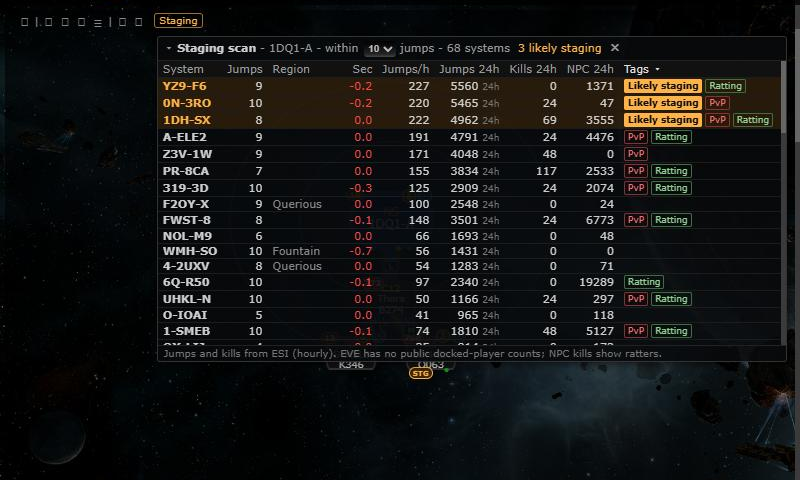
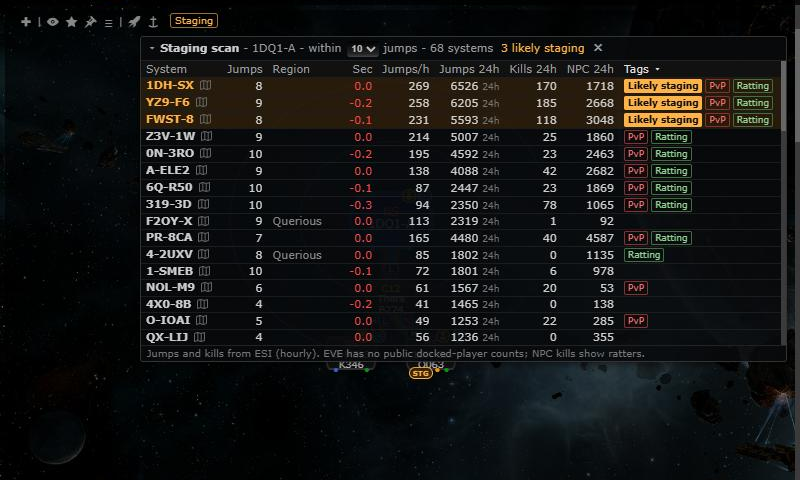
Staging scan: Ratting tag from 1000 NPC kills in 24 h; region map link per system

diff --git a/app/js/fork/staging-scan.js b/app/js/fork/staging-scan.js
@@ -19,7 +19,7 @@ const stagingScan = {
 		medianFactor: 2,	// ...with at least 2x the radius median of jumps...
 		activeHours: 16,	// ...busy (any jumps) in at least 16 of the 24 hours, and NPC kills not outnumbering jumps
 		pvpKills: 10,		// 24 h ship + pod kills for "PvP"
-		ratting: 200,		// 24 h NPC kills for "Ratting"
+		ratting: 1000,		// 24 h NPC kills for "Ratting"
 		quiet: 20,			// fewer 24 h jumps than this: "Quiet"
 		ratterPenalty: 0.5,	// score factor when NPC kills outnumber jumps (a ratting system, not a staging)
 		// Last hour only (no 24 h data yet): same idea, hourly numbers
@@ -242,6 +242,14 @@ if (typeof window !== "undefined" && typeof jQuery !== "undefined" && jQuery.fn 
 		function regionName(regionID) {
 			return typeof appData !== "undefined" && appData.regions && appData.regions[regionID] ? appData.regions[regionID].name : "";
 		}
+		/** The region map (PR #95) when it is loaded and switched on (Settings > Routes & Navigation > Region map) */
+		function regionMapOn() {
+			try {
+				return typeof regionMap !== "undefined" && typeof regionMap.open === "function" && typeof regionMap.settings === "function"
+					&& !!regionMap.settings(opts()).enabled;
+			} catch (e) { return false; }
+		}
+		const RMAP_ICON = "<svg width='11' height='10' viewBox='0 0 11 10' aria-hidden='true'><path d='M0.5 1.5 L3.8 0.5 L7.2 1.5 L10.5 0.5 V8.5 L7.2 9.5 L3.8 8.5 L0.5 9.5 Z M3.8 0.5 V8.5 M7.2 1.5 V9.5' fill='none' stroke='currentColor' stroke-width='1'></path></svg>";
 		function viewing() { return typeof viewingSystemID !== "undefined" ? parseInt(viewingSystemID, 10) : null; }
 		function inNull(id) { return ss.isNullSec(id, sys(id)); }
 		function settings() {
@@ -342,6 +350,10 @@ if (typeof window !== "undefined" && typeof jQuery !== "undefined" && jQuery.fn 
 					e.preventDefault();
 					const id = parseInt(this.getAttribute("data-system"), 10);
 					if (id && id !== viewing() && typeof tripwire !== "undefined") { tripwire.systemChange(id); }
+				});
+				$p.on("click", ".ss-rmap[data-system]", function(e) {
+					e.preventDefault();
+					if (regionMapOn()) { regionMap.open({ kind: "system", id: parseInt(this.getAttribute("data-system"), 10) }); }
 				});
 				$p.on("click", "th[data-sort]", function() {
 					const key = this.getAttribute("data-sort");
@@ -444,6 +456,7 @@ if (typeof window !== "undefined" && typeof jQuery !== "undefined" && jQuery.fn 
 			if (!collapsed) {
 				const rows = ss.sortRows(scan.rows, state.sort.key, state.sort.dir, info);
 				const dayCol = scan.mode === "24h";
+				const rmap = regionMapOn();
 				html += "<div class='ss-body'><table class='ss-table'><thead><tr>"
 					+ header("name", "System") + header("jumps", "Jumps", "Stargate jumps from " + originInfo.name)
 					+ "<th>Region</th>" + header("sec", "Sec")
@@ -459,7 +472,9 @@ if (typeof window !== "undefined" && typeof jQuery !== "undefined" && jQuery.fn 
 					const region = i.regionID !== originInfo.regionID ? regionName(i.regionID) : "";
 					const base = row.day || row.now;
 					html += "<tr class='" + (row.staging ? "ss-staging" : "") + (row.id === origin ? " ss-origin" : "") + "'>"
-						+ "<td><a href='.?system=" + encodeURIComponent(i.name) + "' class='ss-sys' data-system='" + row.id + "'>" + ss.escape(i.name) + "</a></td>"
+						+ "<td><a href='.?system=" + encodeURIComponent(i.name) + "' class='ss-sys' data-system='" + row.id + "'>" + ss.escape(i.name) + "</a>"
+						+ (rmap ? " <a href='#' class='ss-rmap' data-system='" + row.id + "' title='Open on the region map' aria-label='Open "
+							+ ss.escape(i.name) + " on the region map'>" + RMAP_ICON + "</a>" : "") + "</td>"
 						+ "<td class='ss-num'>" + row.jumps + "</td>"
 						+ "<td class='ss-region'>" + ss.escape(region) + "</td>"
 						+ "<td class='ss-num " + ss.escape(s.systemTypeClass || "") + "'>" + ss.secText(i.security) + "</td>"

diff --git a/app/js-test/fork/staging-scan.test.js b/app/js-test/fork/staging-scan.test.js
@@ -123,6 +123,15 @@ describe('stagingScan', () => {
 			assert.deepStrictEqual(row(1).tags, ['Quiet']);
 			assert.deepStrictEqual(row(5).tags, []);
 		});
+		it('tags Ratting from 1000 NPC kills in 24 h', () => {
+			const two = [{ id: S(1), jumps: 0 }, { id: S(2), jumps: 1 }];
+			const out = stagingScan.analyse(two, {}, { hours: 24, systems: {
+				[S(1)]: { jumps: 5000, shipKills: 0, podKills: 0, npcKills: 999, activeHours: 24 },
+				[S(2)]: { jumps: 5000, shipKills: 0, podKills: 0, npcKills: 1000, activeHours: 24 }
+			} });
+			assert.ok(out.rows.find(r => r.id === S(1)).tags.indexOf('Ratting') < 0);
+			assert.ok(out.rows.find(r => r.id === S(2)).tags.indexOf('Ratting') >= 0);
+		});
 		it('flags nothing when the top systems are not well above the median', () => {
 			const flat = stagingScan.analyse(list.slice(0, 4), {}, { hours: 24, systems: {
 				[S(1)]: { jumps: 500, shipKills: 0, podKills: 0, npcKills: 0, activeHours: 24 },

diff --git a/app/css/fork/staging-scan.css b/app/css/fork/staging-scan.css
@@ -85,6 +85,9 @@
 .staging-scan .ss-hours { color: #777; font-size: 9px; }
 .staging-scan .ss-sys { color: #CCC; }
 .staging-scan tr.ss-origin .ss-sys { font-weight: bold; }
+.staging-scan .ss-rmap { color: #666; margin-left: 2px; vertical-align: -1px; }
+.staging-scan .ss-rmap:hover { color: #FFF; }
+.staging-scan .ss-rmap svg { display: inline-block; }
 
 /* Likely staging rows stand out */
 .staging-scan tr.ss-staging td { background: rgba(255, 140, 0, 0.13); }

diff --git a/docker/README.md b/docker/README.md
@@ -909,7 +909,8 @@ reach. The range maths is a separate pure engine, `app/js/fork/jump-range.js` (t
 Viewing a k-space null-sec system (not Pochven, Zarzakh or wormhole space) opens a panel over the chain map
 (`app/js/fork/staging-scan.js`) listing every system within 5 / 10 / 15 stargate jumps (plain hop count over
 `tripwire.map.shortest`, no wormholes) with its traffic and kills, and puts an STG badge on chain nodes that are likely
-staging systems. "Staging" in the chain map header (and Settings > Map Markers) turns it off: `options.stagingScan`
+staging systems. A small map icon next to each system opens it on the region map (only while the region map is on).
+"Staging" in the chain map header (and Settings > Map Markers) turns it off: `options.stagingScan`
 (`enabled`, `radius`, `collapsed`). No new external calls. EVE has no public docked-player counts, so ship jumps
 (traffic) and NPC kills (ratters undocked) stand in.
 
@@ -923,7 +924,7 @@ staging systems. "Staging" in the chain map header (and Settings > Map Markers) 
   hour only and says so; it then tags "Busy now" instead of "Likely staging".
 - Thresholds (`stagingScan.T`): **Likely staging** = among the top 3 of the radius by 24 h jumps, at least 2x the radius
   median, jumps in at least 16 of the 24 hours, and NPC kills not outnumbering jumps. Tags: **PvP** 24 h ship + pod
-  kills >= 10, **Ratting** 24 h NPC kills >= 200, **Quiet** 24 h jumps < 20 (last hour only: 3 / 30 / 2, "Busy now" at
+  kills >= 10, **Ratting** 24 h NPC kills >= 1000, **Quiet** 24 h jumps < 20 (last hour only: 3 / 30 / 2, "Busy now" at
   >= 20 jumps). Default order (staging score): 24 h jumps x share of the 24 hours with traffic, halved when NPC kills
   outnumber jumps.
 

diff --git a/changes/2026-10-12-staging-scan/README.md b/changes/2026-10-12-staging-scan/README.md
@@ -6,7 +6,8 @@
 
 When you view a null-sec system (for example by clicking it on the chain map), a panel over the chain map lists the
 systems within 5 / 10 / 15 gate jumps with their jumps, kills and NPC kills (last hour and last 24 hours) and flags the
-likely staging systems; those also get an STG badge on the chain map. EVE has no public docked-player counts, so traffic
+likely staging systems; those also get an STG badge on the chain map. A small map icon next to each system opens it
+on the region map (shown only while the region map is on). EVE has no public docked-player counts, so traffic
 (ship jumps) and NPC kills (ratters undocked) stand in, and the panel says so.
 
 ## Before / After
@@ -33,6 +34,7 @@ Toggle: the "Staging" button in the chain map header, and Settings > Map Markers
 - `app/js/fork/staging-scan.js`, `app/css/fork/staging-scan.css`: gate BFS, scoring and tags (pure, tested in
   `app/js-test/fork/staging-scan.test.js`), the panel, the header button and the chain node badge. Hooks
   `tripwire.systemChange`, `chain.nodes` and `chain.activity` by wrapping them.
+- Tags: PvP (24 h ship + pod kills >= 10), Ratting (24 h NPC kills >= 1000), Quiet (24 h jumps < 20).
 - `public/staging_activity.php` (new): 24 h sums per system from upstream's `system_activity` table (no new external
   calls, file cache per hour). Thresholds and the endpoint are documented in docker/README.md#staging-scan.
 - `app/js/fork/mask-defaults.js`, `maskadmin/maskadmin.inc.php`: `stagingScan` in the mask defaults allow-list.
